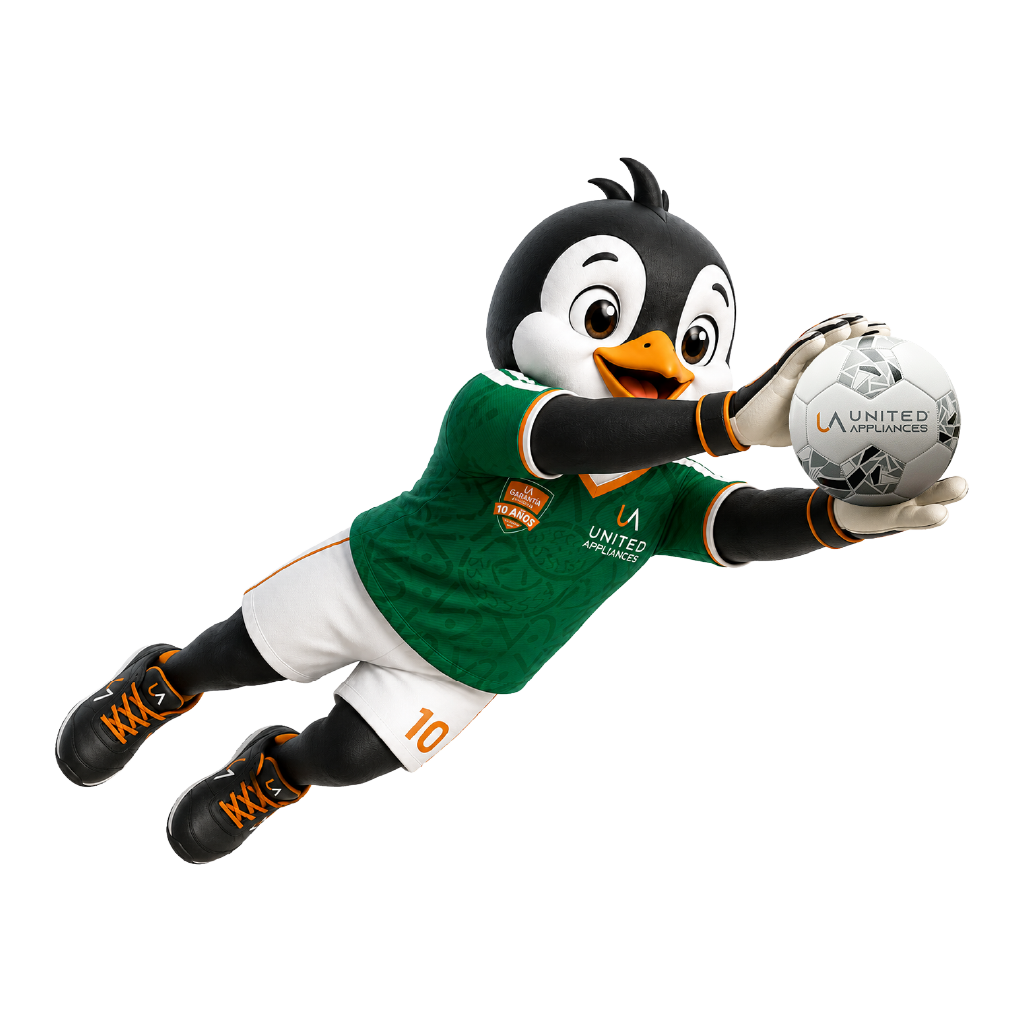
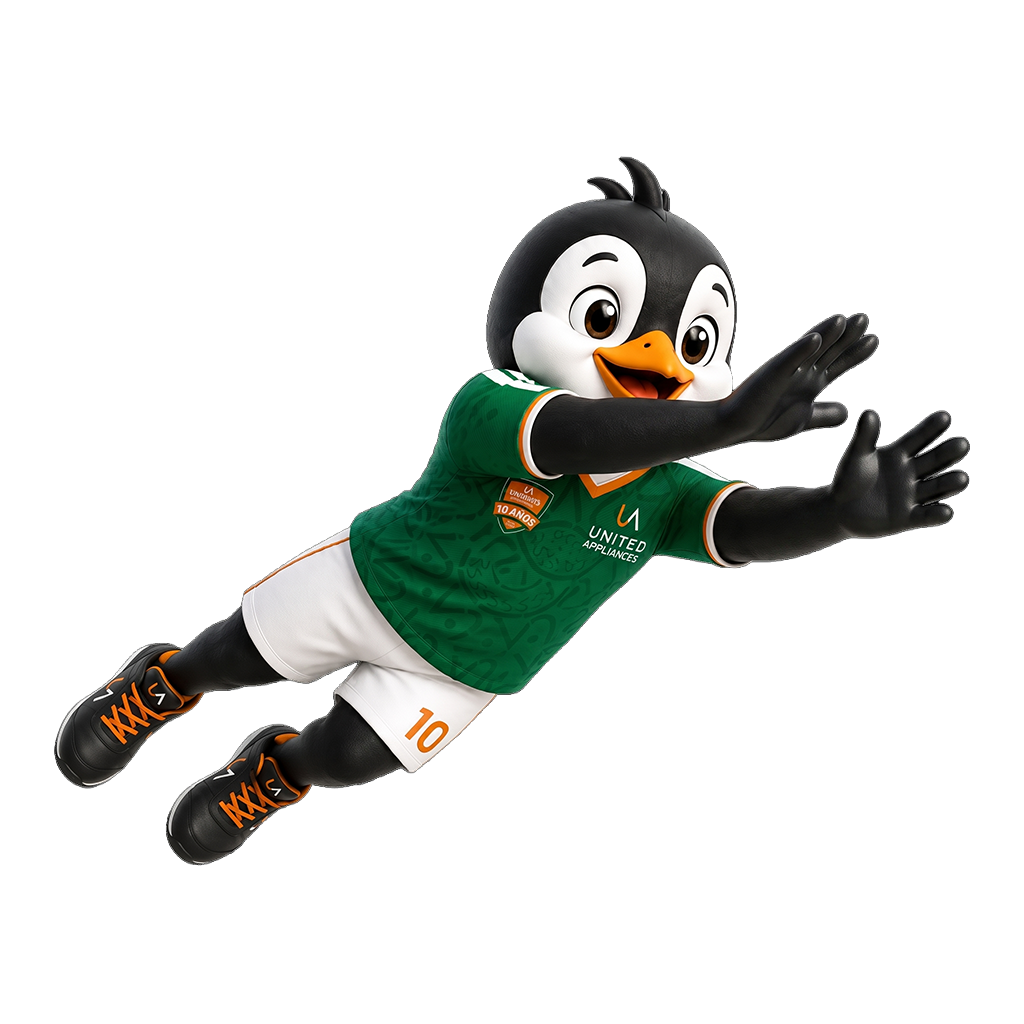
Añadir música in-game, mejora visual del +1 y pulso en botón Jugar.
Se integra control de música con mute y volumen en HUD, se estiliza el indicador +1 (blanco con fondo naranja) y se incluyen actualizaciones de sprites dive de Max.

diff --git a/app.js b/app.js
@@ -8,6 +8,8 @@ const GAME_OVER_PAUSE_MS = 1200;
 
 let muted = false;
 let validatedPlayerName = '';
+let bgmAudio = null;
+let bgmVolume = 0.35;
 
 const $ = (sel) => document.querySelector(sel);
 
@@ -83,7 +85,36 @@ function showIntroMessage() {
   setTimeout(() => { intro.style.display = 'none'; }, 2100);
 }
 
+function initBgm() {
+  if (bgmAudio) return;
+  bgmAudio = new Audio('assets/Epic Rock Action Trailer.wav');
+  bgmAudio.loop = true;
+  bgmAudio.preload = 'auto';
+  bgmAudio.volume = bgmVolume;
+}
+
+function setBgmMuted(nextMuted) {
+  muted = nextMuted;
+  if (!bgmAudio) return;
+  bgmAudio.muted = muted;
+}
+
+function playBgm() {
+  initBgm();
+  if (!bgmAudio) return;
+  bgmAudio.play().catch(() => {
+    /* Autoplay bloqueado hasta interacción del usuario */
+  });
+}
+
+function stopBgm() {
+  if (!bgmAudio) return;
+  bgmAudio.pause();
+  bgmAudio.currentTime = 0;
+}
+
 function startGame() {
+  playBgm();
   showScreen('game-screen');
   updateRecordHUD();
   showIntroMessage();
@@ -99,6 +130,7 @@ function onJugarClick() {
 }
 
 function exitToMenu() {
+  stopBgm();
   if (window.UACup) {
     window.UACup.pausarJuego();
     window.UACup.resetPartida();
@@ -136,6 +168,7 @@ function showEndScreen(data) {
   }
 
   setLocalRecord(data.goles);
+  stopBgm();
   showScreen('game-screen');
 
   endScreen.classList.remove('hidden', 'slide-in');
@@ -294,10 +327,17 @@ function bindUI() {
   $('#btn-home')?.addEventListener('click', exitToMenu);
 
   $('#btn-mute')?.addEventListener('click', (e) => {
-    muted = !muted;
+    setBgmMuted(!muted);
     const btn = e.currentTarget;
-    btn.textContent = muted ? '🔇' : '🔊';
+    btn.textContent = muted ? '🔇' : '🎵';
     btn.setAttribute('aria-pressed', String(muted));
+  });
+
+  $('#bgm-volume')?.addEventListener('input', (e) => {
+    const next = Number(e.currentTarget.value);
+    bgmVolume = Number.isFinite(next) ? Math.max(0, Math.min(1, next)) : 0.35;
+    initBgm();
+    if (bgmAudio) bgmAudio.volume = bgmVolume;
   });
 
   $('#btn-play-again')?.addEventListener('click', () => {
@@ -313,6 +353,7 @@ function bindUI() {
 }
 
 document.addEventListener('DOMContentLoaded', () => {
+  initBgm();
   const client = initSupabase();
   if (window.UACupApi) {
     window.UACupApi.initApi(client);
@@ -325,6 +366,9 @@ document.addEventListener('DOMContentLoaded', () => {
   validatedPlayerName = getPlayerName();
   updateRecordHUD();
   bindUI();
+
+  const volumeEl = $('#bgm-volume');
+  if (volumeEl) volumeEl.value = String(bgmVolume);
 
   window.onUACupGameOver = handleGameOver;
 });

diff --git a/main.js b/main.js
@@ -776,13 +776,36 @@ function drawFloatPlus() {
 
   const alpha = clamp(floatPlusTimer / FLOAT_PLUS_MS, 0, 1);
   const offsetY = (1 - alpha) * 60;
+  const x = VIEWPORT.W / 2;
+  const y = VIEWPORT.H * 0.42 - offsetY;
 
   ctx.save();
   ctx.globalAlpha = alpha;
-  ctx.fillStyle = '#ec7700';
-  ctx.font = '500 96px Roboto, sans-serif';
+  ctx.font = '700 88px Roboto, sans-serif';
   ctx.textAlign = 'center';
-  ctx.fillText('+1', VIEWPORT.W / 2, VIEWPORT.H * 0.42 - offsetY);
+  ctx.textBaseline = 'middle';
+
+  const label = '+1';
+  const textW = ctx.measureText(label).width;
+  const padX = 30;
+  const padY = 18;
+  const boxW = textW + padX * 2;
+  const boxH = 88 + padY * 2;
+  const boxX = x - boxW / 2;
+  const boxY = y - boxH / 2;
+
+  ctx.fillStyle = '#ec7700';
+  if (typeof ctx.roundRect === 'function') {
+    ctx.beginPath();
+    ctx.roundRect(boxX, boxY, boxW, boxH, 20);
+    ctx.fill();
+  } else {
+    ctx.fillRect(boxX, boxY, boxW, boxH);
+  }
+
+  ctx.fillStyle = '#ffffff';
+  ctx.textAlign = 'center';
+  ctx.fillText(label, x, y + 2);
   ctx.restore();
 }
 

diff --git a/style.css b/style.css
@@ -110,6 +110,7 @@ html, body {
   background: #ec7700;
   border-color: rgba(255, 255, 255, 0.25);
   color: #fff;
+  animation: play-pulse 2.2s ease-in-out infinite;
 }
 
 #boot-screen .btn--primary:active {
@@ -236,6 +237,13 @@ html, body {
   display: flex;
   align-items: center;
   justify-content: center;
+}
+
+.hud-volume {
+  width: clamp(4.25rem, 18vw, 6.25rem);
+  accent-color: #ec7700;
+  cursor: pointer;
+  align-self: center;
 }
 
 .hud-icon-btn[aria-pressed="true"] {
@@ -440,6 +448,11 @@ html, body {
   40% { transform: translateX(8px); }
   60% { transform: translateX(-6px); }
   80% { transform: translateX(6px); }
+}
+
+@keyframes play-pulse {
+  0%, 100% { transform: scale(1); }
+  50% { transform: scale(1.03); }
 }
 
 /* ── Leaderboard ── */

diff --git a/index.html b/index.html
@@ -36,7 +36,17 @@
           <span id="hud-timer" class="hud-timer" data-hud-timer>00:00.0</span>
         </div>
         <div class="hud-block hud-block--right">
-          <button type="button" id="btn-mute" class="hud-icon-btn" aria-label="Silenciar sonido" aria-pressed="false">🔊</button>
+          <button type="button" id="btn-mute" class="hud-icon-btn" aria-label="Silenciar música" aria-pressed="false">🎵</button>
+          <input
+            type="range"
+            id="bgm-volume"
+            class="hud-volume"
+            min="0"
+            max="1"
+            step="0.05"
+            value="0.35"
+            aria-label="Volumen de música"
+          />
           <button type="button" id="btn-close-game" class="hud-icon-btn" aria-label="Salir al menú">✕</button>
         </div>
       </header>